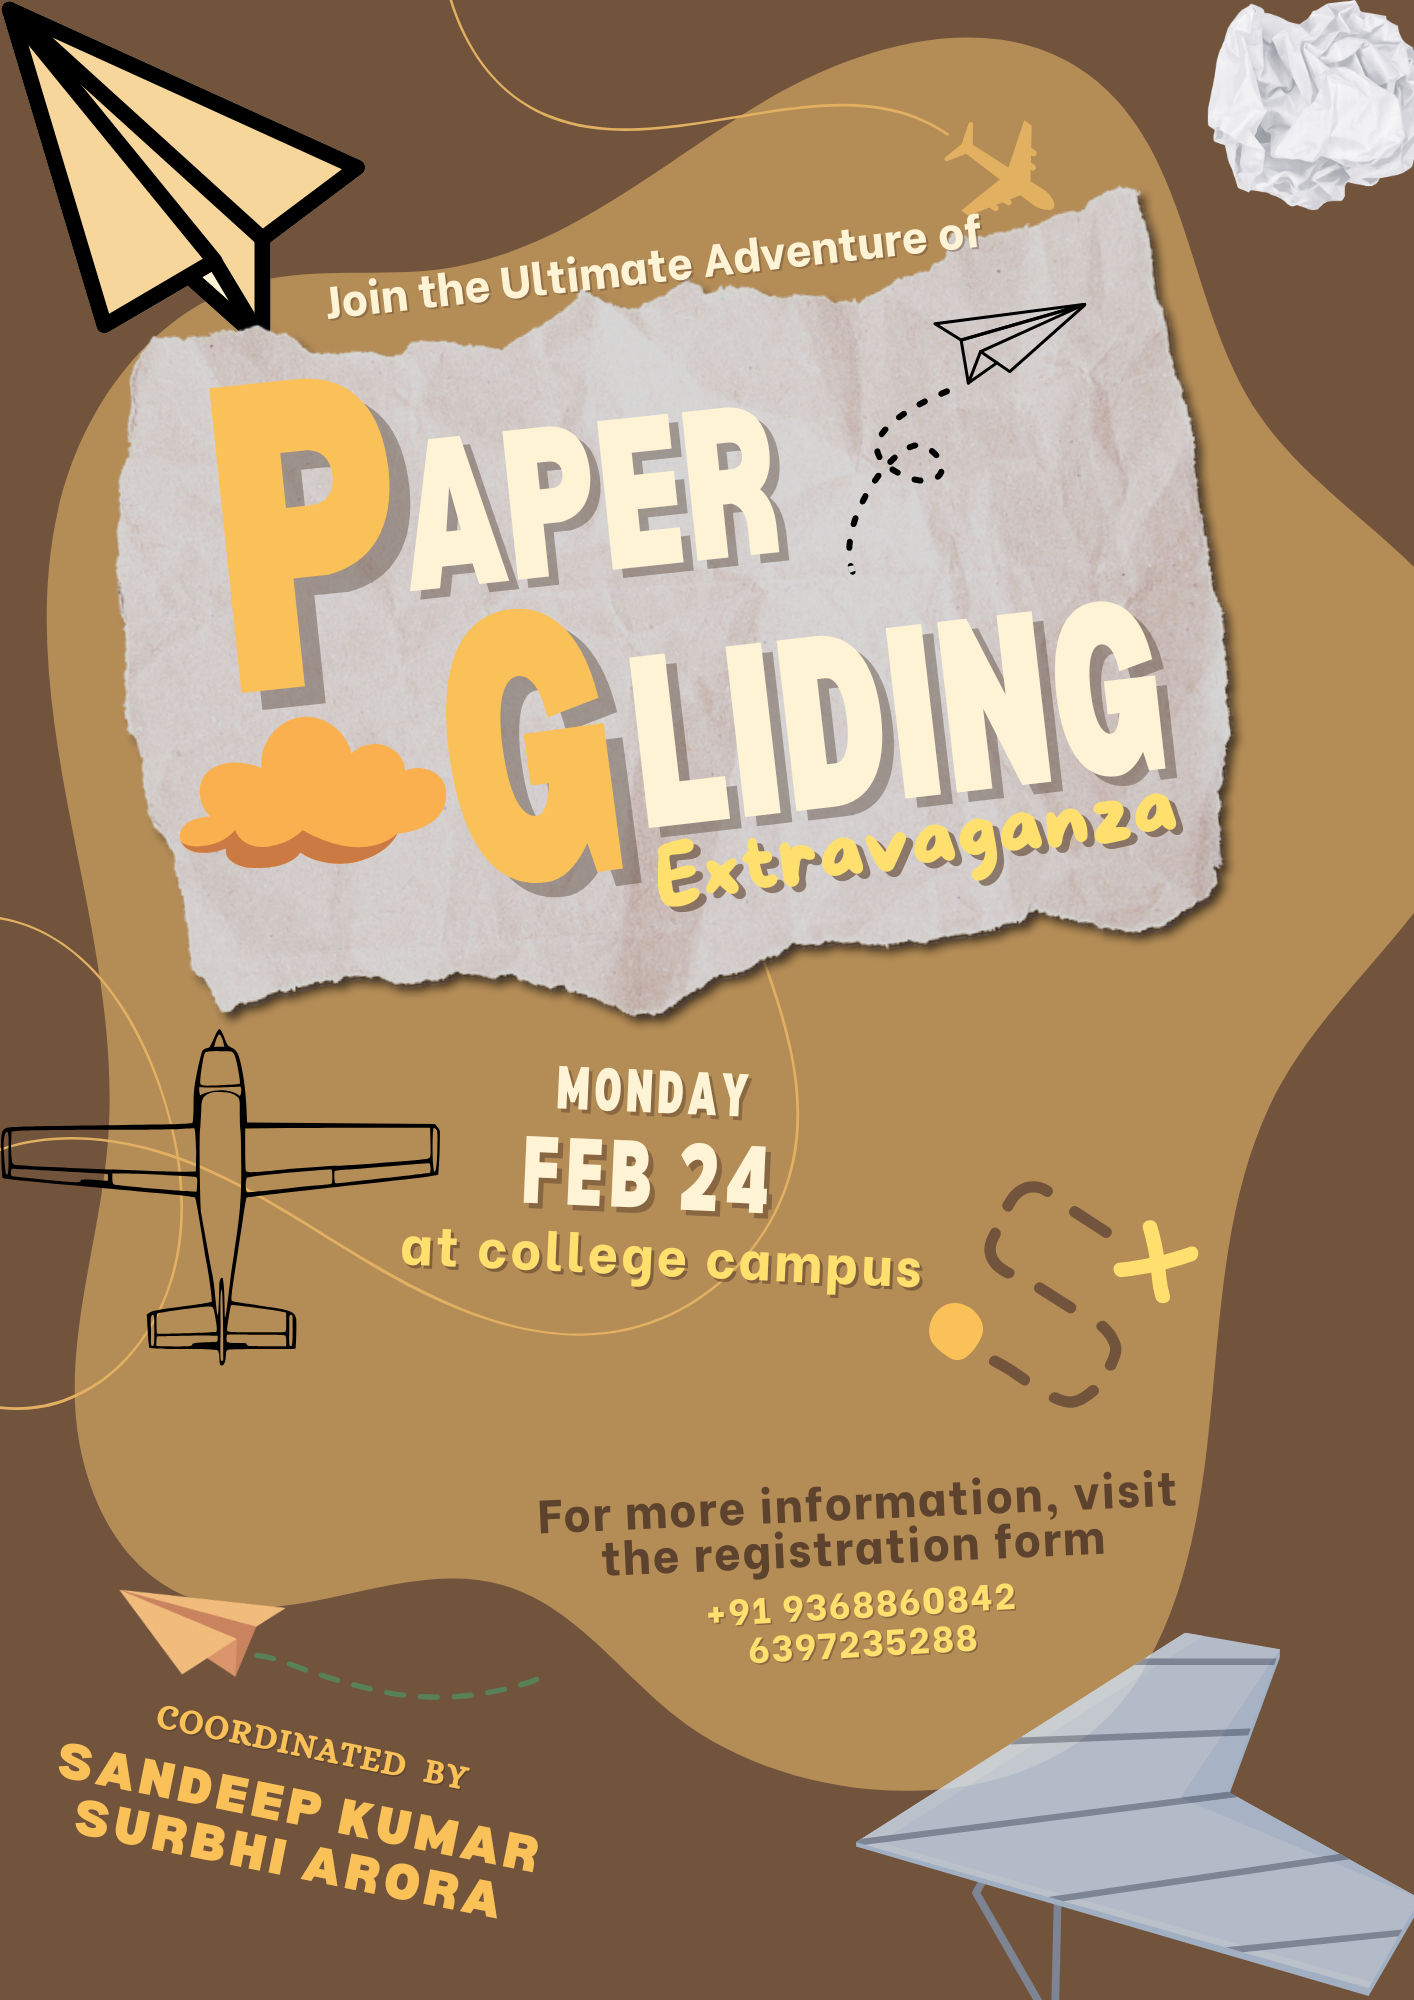
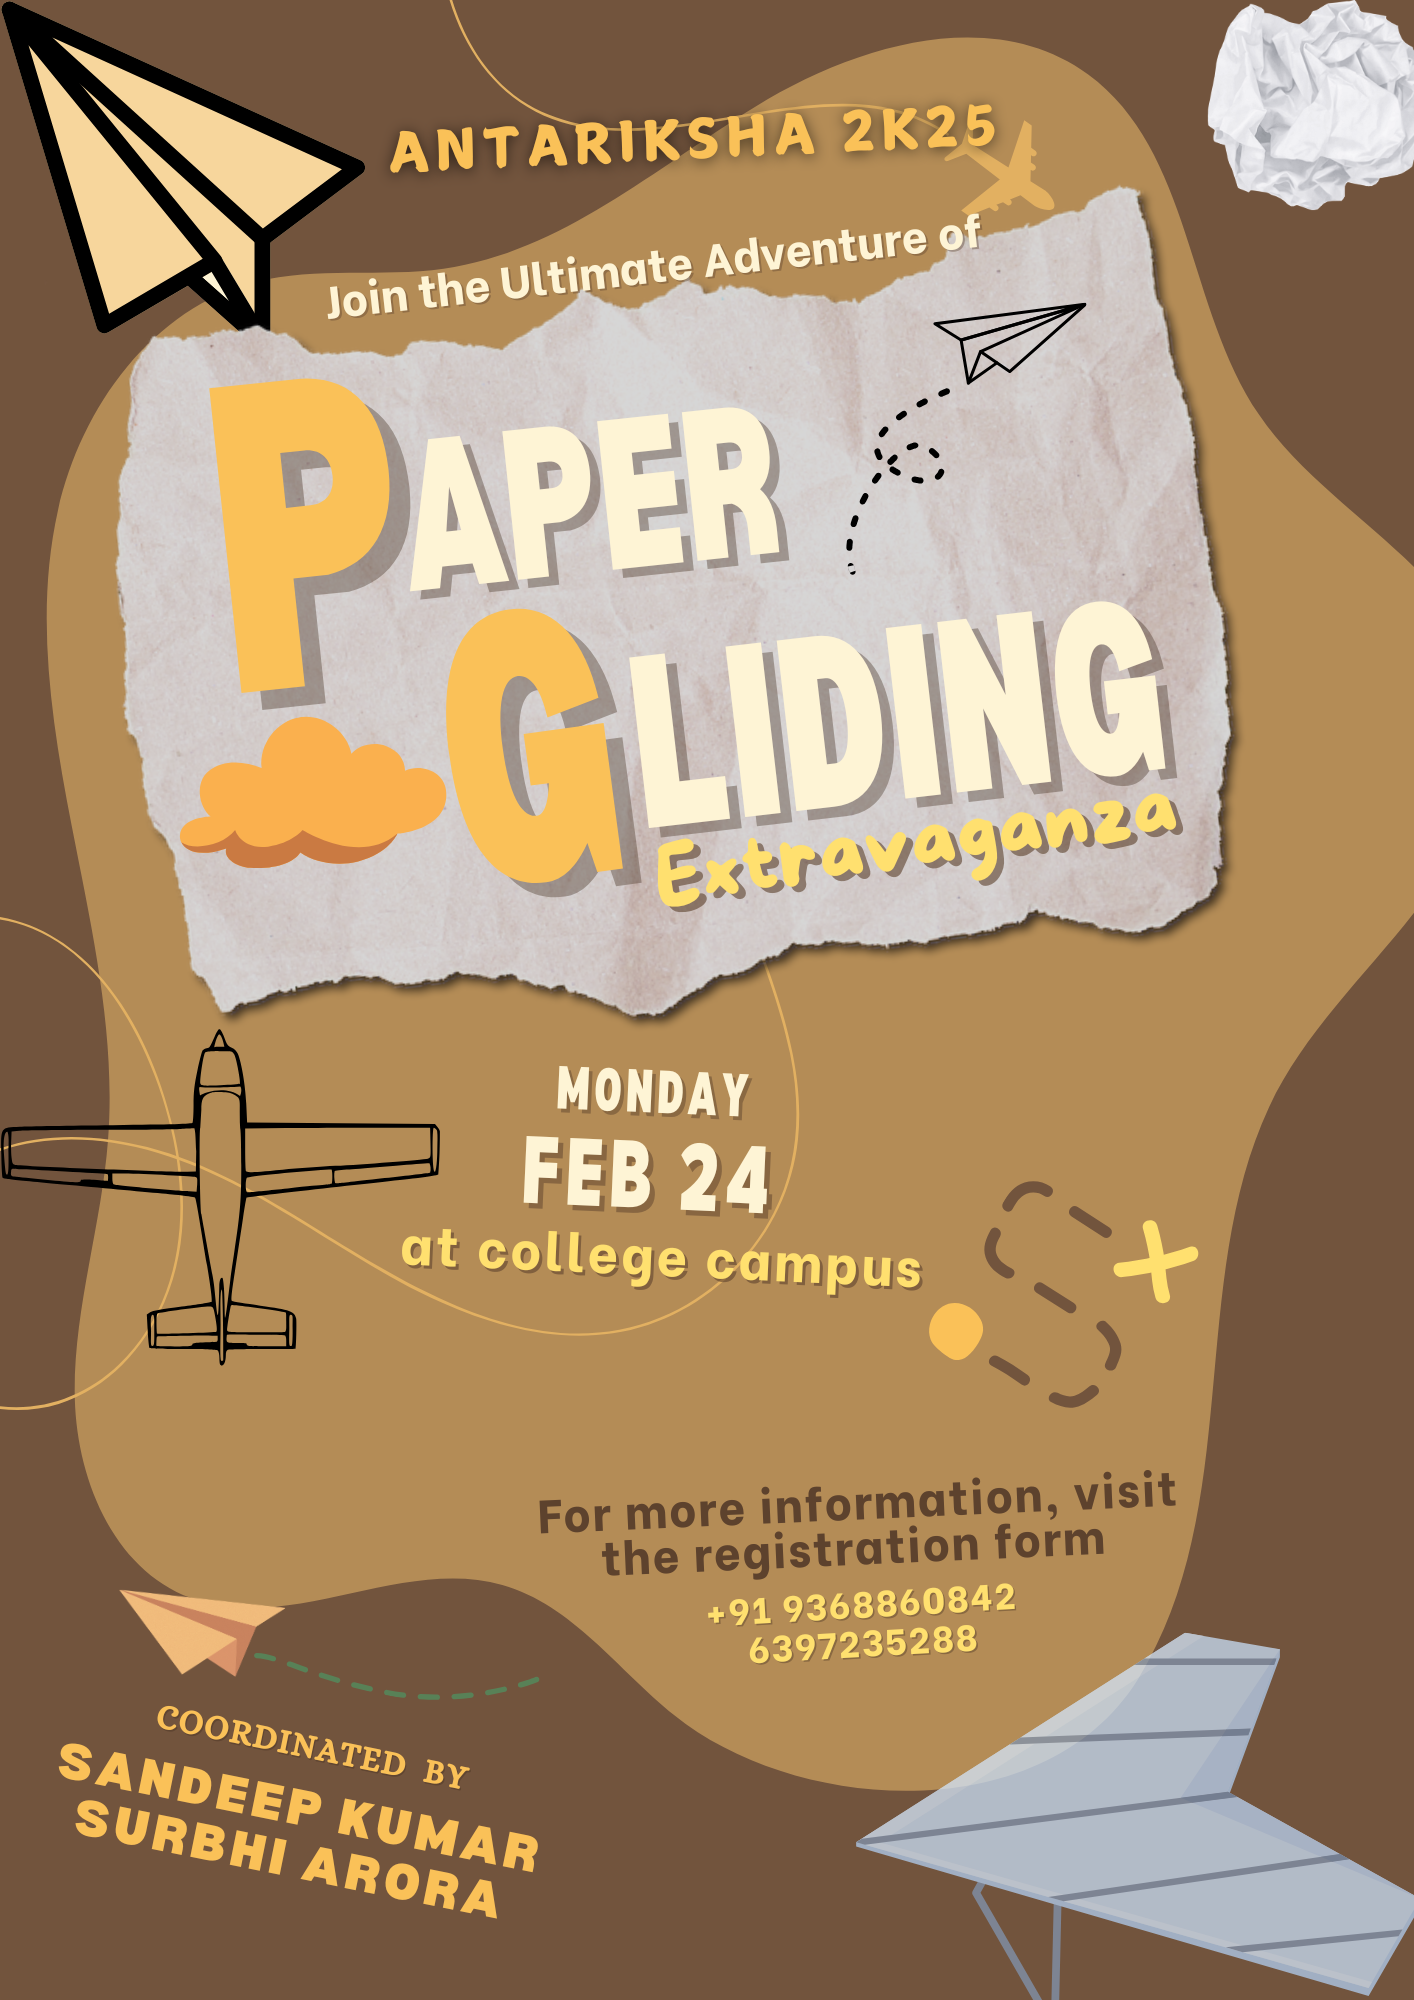
Project added

Changed region(s): [[0.2801, 0.031, 0.7157, 0.093]]

diff --git a/src/assets/eventsData.js b/src/assets/eventsData.js
@@ -9,6 +9,7 @@ import v from "./Events/v.png";
 import c from "./Events/c.png";
 import a from "./Events/a.png";
 import h from "./Events/h.png";
+import z from "./Events/z.jpg";
 import TreasureHunt from "./Events/TreasureHunt.png";
 export const eventsData = [
   {
@@ -56,7 +57,9 @@ export const eventsData = [
     prizes: ["To Be Disclosed Soon"],
     team: "Team of 4",
     fees: "Free",
-    contactInfo: ["Neha Kumari :8126393572"],
+    contactInfo: ["Neha Kumari :8126393572",
+      "Apporva Murari: 7300537440"
+    ],
     location: "College ",
     date: "24th FEB ",
     note: ["Please Read Google Form For More Details"],
@@ -115,9 +118,9 @@ export const eventsData = [
   {
     id: 5,
     image: f ,
-    name: "FLY HIGH SHOW",
+    name: "Reel Making ",
     description:
-      "An Aerial Show in which an airplane and a drone will be deployed simultaneously in the sky, catching the attention of the people on ground. Below there will be a set from which all these will be launched and controlled. This area will also contain all the information about these projects including Where these are used, How it was made, Components required to make this, Description of components, Budget of the overall project and much more. This will act as a great impression for those who have keen interests in aeronautics and flying objects. Also this event will attract people from far and will add as a great addition to the event",
+      "The reels should align with the given theme (e.g., cultural, social awareness, humor, sustainability, etc.).",
     rules: ["1. Theme/Topic:",
 "The reels should align with the given theme (e.g., cultural, social awareness, humor, sustainability, etc.).",
 "Specify if the theme is open-ended or specific to certain categories.",
@@ -132,7 +135,7 @@ export const eventsData = [
       
     ],
     location: "College",
-    date: "23",
+    date: "24th FEB",
     note: ["Please Read Google Form For More Details"],
     link: "https://forms.gle/A8hGMiuY86uFTFaT6",
   },
@@ -159,10 +162,10 @@ export const eventsData = [
     name: "Snap Sparks",
     description:
       "Snap Sparks will be a Where Photography Meets Innovation! This is a fun and competitive event, where participants will test their skills in photography . ",
-    rules: ["1.Participants need to present their work in front of the judges.",
-      "2.Participants need to speak about their image for about 45 seconds.",
-      "3.There must be some hidden message in the photo you clicked.",
-      "4.The message can be of any type such as religion specific or conservative specific and any kind of message. "],
+    rules: ["Participants need to present their work in front of the judges.",
+      "Participants need to speak about their image for about 45 seconds.",
+      "There must be some hidden message in the photo you clicked.",
+      "The message can be of any type such as religion specific or conservative specific and any kind of message. "],
     prizes: ["EXICITING PRIZES AND REWARDS"],
     team: "Individual",
     fees: "Free",
@@ -171,7 +174,7 @@ export const eventsData = [
       "Akshat Kala   : 8923700017",
     ],
     location: "College",
-    date: "23 Feb ",
+    date: "24th FEB ",
     note: [
       "Please Read Google Form For More Details",
     ],
@@ -197,7 +200,7 @@ export const eventsData = [
       "Manish Bisht   : 7579108334 ",
     ],
     location: "College",
-    date: "23 Feb ",
+    date: "24 Feb ",
     note: [
       "Please Read Google Form For More Details",
     ],
@@ -222,7 +225,7 @@ export const eventsData = [
       
     ],
     location: "College",
-    date: "23 Feb ",
+    date: "24 Feb ",
     note: [
       "Please Read Google Form For More Details",
     ],
@@ -248,7 +251,7 @@ export const eventsData = [
       
     ],
     location: "College",
-    date: "23 Feb ",
+    date: "24 Feb ",
     note: [
       "Please Read Google Form For More Details",
     ],
@@ -292,7 +295,7 @@ export const eventsData = [
     prizes: ["EXICITING PRIZES AND REWARDS"],
     team: "Solo / 4 Members",
     fees: "Free",
-    contactInfo: [
+    contactInf: [
       "Rudransh Joshi (rudranshjoshi1806@gmail.com)",
 "Uttam Tiwari (anitauttam204@gmail.com)",
 
@@ -306,4 +309,37 @@ export const eventsData = [
     link: "https://docs.google.com/forms/d/e/1FAIpQLSe6iG4UJtVDcdzIaZxSNwIdYXPvcmsSy9uXRjPl337x1fVc4A/viewform",
     onSpot: "true",
   }, 
+  {
+    id: 12,
+    image: z,
+    name: "Mystery Box",
+    description:
+      "Welcome to the Mystery Box :  This event is designed for student to show there skills.",
+    rules: ["Team Formation",
+    "Each team must consist atmost 2 members.",
+    "No member is allowed to join or  switch team once game begins.",            
+"Starting & Ending",
+    "The game will start at a designated time and location.",
+    "Your gadgets/devices will be submitted as the game starts",
+"Fair Play & Integrity",
+    " No use of mobile phone, internet or external help for crafting. ",
+   " No member can use items of other team."],
+    prizes: ["EXICITING PRIZES AND REWARDS"],
+    team: "Atmost 2 memberss",
+    fees: "Free",
+    contactInfo: [
+      "Ritusah (9634155563)",
+,
+
+      
+    ],
+    location: "College",
+    date: "25 Feb ",
+    note: [
+      "Please Read Google Form For More Details",
+    ],
+    link: "https://docs.google.com/forms/d/e/1FAIpQLSdOkGzcP4S7aBaPP5PMQvca8R-VFcQ1LqmYuCErWORyy9P8EA/viewform",
+    onSpot: "true",
+  }, 
+
 ];

diff --git a/src/components/Faq/Faq.jsx b/src/components/Faq/Faq.jsx
@@ -3,24 +3,24 @@ import classes from "./Faq.module.css";
 
 const questions = [
   {
-    question: "What is Antarikha 2K25?",
+    question: "What is Antariksha 2K25?",
     answer:
-      "Antarikha 2k25 is the one of biggest Technical event in the history of DYPCOE.",
+      "Antariksha 2k25 is the one of biggest Technical event in the history of Akit Tanakpur.",
   },
   {
     question: "What are the Dates and Timings of event?",
     answer:
-      "The event will start From 25 Feb",
+      "The event will start From 24-25 Feb",
   },
   {
     question: "How can I participate in the event?",
     answer:
-      "Explore various events on the Antarikha website and register for the same",
+      "Explore various events on the Antariksha website and register for the same",
   },
   {
-    question: "Is there any entry fee for Antarikha 2k25?",
+    question: "Is there any entry fee for Antariksha 2k25?",
     answer:
-      "No, there is not any entry fee to Take Part in Antarikha 2k25 .",
+      "No, there is not any entry fee to Take Part in Antariksha 2k25 .",
   },
 ];
 

diff --git a/src/components/Navbar/Navbar.jsx b/src/components/Navbar/Navbar.jsx
@@ -116,9 +116,7 @@ const Navbar = () => {
           </ul>
 
           
-            <div className={classes.btn}>
-              <GrabBitBtn label="" />
-            </div>
+            
           
 
           <div className={classes.hamburger} onClick={() => setMobile(!mobile)}>
@@ -138,11 +136,11 @@ const Navbar = () => {
           <a
             target="_blank"
             rel="noopener noreferrer"
-            href="https://grabbits.vercel.app/"
+            href="/events"
           >
             {/* <button className={classes.btn1}>GrabBit</button> */}
             <div className={classes.btn1}>
-              <GrabBitBtn label="GrabBit" />
+              <GrabBitBtn label="Click Me" />
             </div>
           </a>
 
@@ -221,7 +219,7 @@ const Navbar = () => {
                 style={{ color: "white", textDecoration: "none" }}
               >
                 <Link className={classes.homeLink} to="/leaderboard">
-                  Leaderboard
+                  More
                 </Link>
               </Drop>
             </li>

diff --git a/src/components/Navbar/Navbar.module.css b/src/components/Navbar/Navbar.module.css
@@ -77,7 +77,7 @@
   height: 3.5px;
   bottom: 0;
   left: 0;
-  background-image: linear-gradient(to bottom right, #ff00ee, #ff0932);
+  background-image: linear-gradient(to bottom right, #eca5e7, #ff0932);
 
   transform-origin: bottom right;
   transition: transform 0.25s ease-in-out;
@@ -105,7 +105,7 @@
   text-decoration: none;
   margin-right: 3rem;
   cursor: pointer;
-  background-image: linear-gradient(to bottom right, #ff00ee, #ff0932);
+  background-image: linear-gradient(to bottom right, #df9eda, #ff0932);
 
   -webkit-background-clip: text;
   /* -webkit-text-fill-color: transparent; */
@@ -225,7 +225,7 @@
     flex-direction: column;
     background-color: rgba(0, 0, 0, 0.89);
     border-radius: 10px;
-    padding: 1.3rem 2rem;
+    padding: 1.3rem 2rem; 
     text-align: center;
     transition: all 0.8s;
   }

diff --git a/src/components/SingleEventPage/SingleEventPage.module.css b/src/components/SingleEventPage/SingleEventPage.module.css
@@ -16,7 +16,7 @@
   margin-top: 10vh;
   border-radius: 5px;
   background-color: rgba(255, 255, 255, 0.1);
-  backdrop-filter: blur(10px);
+  
   box-shadow: 0px 0px 30px 1px rgba(0, 255, 117, 0.3);
   display: flex;
   padding: 18px;
@@ -71,12 +71,12 @@
 .headingp {
   font-size: 24px;
   font-weight: 500;
-  background-image: linear-gradient(to bottom right, #3232ff, #09b9ff);
+  background-image: linear-gradient(to bottom right, #ce8ee7, #09b9ff);
   padding: 4px 12px 4px 12px;
   border-radius: 4px;
 }
 .headingp {
-  background-image: linear-gradient(to bottom right, #ff00ee, #ff0932);
+  background-image: linear-gradient(to bottom right, #ce8ee7, #09b9ff);
 }
 
 .content {
@@ -140,6 +140,6 @@
   }
 }
 .soon {
-  color: #ff32ad;
+  color: #d67eda;
   font-size: 20px;
 }

diff --git a/src/components/Contact/Contact.module.css b/src/components/Contact/Contact.module.css
@@ -35,7 +35,7 @@
   width: 150px;
   height: 4px;
   text-align: center;
-  background-image: linear-gradient(90deg, #09b35c 2.27%, #32b4ed 97.67%);
+  background-image: linear-gradient(90deg, #a07aa9 2.27%, #32b4ed 97.67%);
 }
 
 .contentBox {
@@ -54,12 +54,12 @@
 .personBox {
   background: linear-gradient(
     180deg,
-    #09b35c 0%,
+    #c668dd 0%,
     rgba(50, 180, 237, 0.63) 100%
   );
   color: #fff;
   height: auto;
-  padding: 1.2rem 3rem;
+  padding: 7rem 12rem;
   border-radius: 8px;
 }
 

diff --git a/src/components/Contact/Contact.jsx b/src/components/Contact/Contact.jsx
@@ -12,7 +12,7 @@ const Contact = () => {
               <h3 className={classes.personHeading}>Rudransh Joshi </h3>
               <div className={classes.details}>
                 <p>
-                  Event Head <br></br>Antarikha 2K25
+                  Event Head <br></br>Antariksha 2K25
                 </p>
                 <a className={classes.anchor} href="tel:+918630822921">
                   +91 8630822921

diff --git a/src/components/About/About.module.css b/src/components/About/About.module.css
@@ -1,6 +1,7 @@
 .aboutSec {
   height: 100%;
   padding: 3rem 1.5rem;
+  -webkit-backdrop-filter: blur(5px);
   backdrop-filter: blur(5px);
 }
 
@@ -8,7 +9,7 @@
   width: 100%;
   display: flex;
   margin: 0 auto;
-  background-color: rgba(234, 66, 217, 0.432);
+  background-color: rgba(173, 137, 179, 0.432);
   padding: 4rem 5rem;
   border-radius: 15px;
 }

diff --git a/src/components/Faq/Faq.module.css b/src/components/Faq/Faq.module.css
@@ -55,13 +55,14 @@
 }
 
 .answer {
-  font-size: 1.4rem;
+  font-size: 1.7rem;
   max-height: 100px;
   transition: max-height 0.5s;
   color: #f2f2f2;
   padding: 1.8rem 0 0 0;
   letter-spacing: 0.3rem;
   opacity: 80%;
+  font: bold;
 }
 
 .noAnswer {
